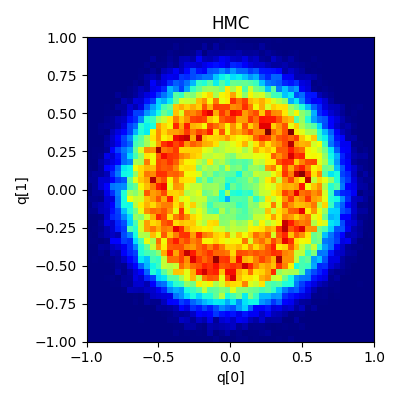
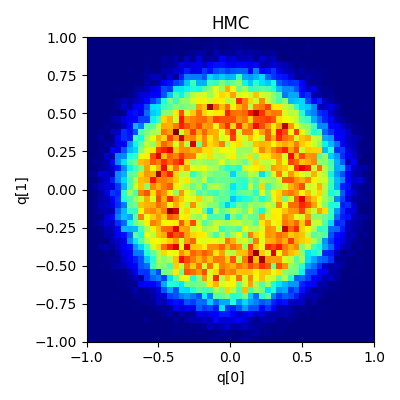
updated some files

Changed region(s): [[0.24, 0.09, 0.93, 0.84]]

diff --git a/src/d.py b/src/d.py
@@ -43,12 +43,12 @@ def Verlet(q0, p0, eps, T, alpha, m):
 def autocovariance(X): # X is only the tail of q after the burn-in
     mu = np.mean(X, axis=0)
     N = len(X[:, 0])
-    cov = np.zeros([N, 2])
-    corr = 0
-    for k in range(N):
-        for i in range(N-k):
+    cov = np.zeros([N-1, 2])
+    
+    for k in range(N-1):
+        for i in range(N-k-1):
             cov[k, :] += ((X[i+k, :])-mu)*(X[i, :]-mu)
-        cov[k, :] = (1/(N-1))*cov[k, :]
+        cov[k, :] = (1/(N-k-1))*cov[k, :]
         
     return cov
 
@@ -62,19 +62,31 @@ def autocorrelation(autocov):
     return corr
 
 def get_M(autocov): # check adaptation of function for  2 dimensions
-    M = None
+    M1 = None
     for k in range(int(len(autocov[:, 0])/2)):
-        if ((autocov[2*k, 0] + autocov[2*k+1, 0])<=0) or ((autocov[2*k, 1] + autocov[2*k+1, 1])<=0) :
-            M = 2*k
+        if ((autocov[2*k, 0] + autocov[2*k+1, 0])<=0):
+            M1 = 2*k
             break
-    if M is None:
-        M = int(len(autocov[:, 0])-2)
-    return M
+    if M1 is None:
+        M1 = int(len(autocov[:, 0])-2)
+    M2 = None
+    for k in range(int(len(autocov[:, 1])/2)):
+        if ((autocov[2*k, 1] + autocov[2*k+1, 1])<=0) :
+            M2 = 2*k
+            break
+    if M2 is None:
+        M2 = int(len(autocov[:, 0])-2)
+    
+    return M1, M2
 
 def get_sigma(autocov): # To check (difference between serie 13 and lecture notes)
-    M = get_M(autocov)
-    id = range(1, M)
-    return autocov[0, :] + 2*np.sum(autocov[id, :], axis=0)
+    [M1, M2] = get_M(autocov)
+    id1 = range(1, M1)
+    S1 = autocov[0, 0] + 2*np.sum(autocov[id1, 0])
+    id2 = range(1, M2)
+    S2 = autocov[0, 1] + 2*np.sum(autocov[id2, 1])
+
+    return [S1, S2]
 
 
 def effective_sample_size(autocov):
@@ -83,7 +95,7 @@ def effective_sample_size(autocov):
     for i in range(n):
         sigma = get_sigma(autocov[i, :, :])
         #print("Sigma=", sigma, ", c0=", autocov[i, 0, :], ", N=", N)
-        ess[i, :]=N*np.divide(autocov[i, 0, :], sigma)
+        ess[i, :] = N*np.divide(autocov[i, 0, :], sigma)
     return ess
 
 
@@ -114,7 +126,7 @@ def Hamiltonian_Monte_Carlo(q0, m, N, T, eps, alpha):
     rejected = 0
     for i in range(N):
         p = st.norm.rvs(loc=0, scale=np.sqrt(m))
-        q_star, p_star = Verlet(q[i, :], p, T, eps, alpha, m)
+        q_star, p_star = Verlet(q[i, :], p, eps, T, alpha, m)
         u = np.random.uniform()
         if (u<np.exp(-U(q_star, alpha)+U(q[i, :], alpha)-K(p_star, m)+K(p, m))):
             q[i+1, :] = q_star

diff --git a/src/ess.py b/src/ess.py
@@ -9,7 +9,9 @@ def main():
     number = 20
 
     #N = 80 #length of the chain
-    vector_N = np.ndarray.astype(np.floor(np.linspace(30, 300, number)), dtype=int)
+    vector_N = np.ndarray.astype(np.floor(np.linspace(30, 200, number)), dtype=int)
+    #vector_N =np.asarray([50, 50, 50])
+    #print(vector_N)
 
     n = 50
     #vector_n = np.ndarray.astype(np.floor(np.linspace(200, 1000, number)), dtype=int) #number of chains simulated
@@ -21,8 +23,8 @@ def main():
     sigma = 0.1
 
 
-    ESS = np.zeros(number)
-    ESS_ham = np.zeros(number)
+    ESS = np.zeros([number, 2])
+    ESS_ham = np.zeros([number, 2])
 
     k=0
 
@@ -47,29 +49,34 @@ def main():
         tail_q_ham = big_q_ham[:, idx, :]
 
 
-        cov = np.zeros(np.shape(tail_q))
-        cov_ham = np.zeros(np.shape(tail_q_ham))
+        cov = np.zeros([n, len(idx)-1, 2])
+        #print(np.shape(cov))
+        cov_ham = np.zeros([n, len(idx)-1, 2])
         for i in range(n):
             cov[i, :, :] = autocovariance(tail_q[i, :, :])
             cov_ham[i, :, :] = autocovariance(tail_q_ham[i, :, :])
 
 
-        ESS[k] = np.mean(effective_sample_size(cov))
+        ESS[k, :] = np.mean(effective_sample_size(cov), axis=0)
         
-        ESS_ham[k] = np.mean(effective_sample_size(cov_ham))
+        ESS_ham[k, :] = np.mean(effective_sample_size(cov_ham), axis=0)
 
         print("Iteration: ", k+1, "/", len(vector_N))
         k=k+1
 
-    fig, ax = plt.subplots(1, 2)
-    ax[0].plot(2*2*vector_N, ESS)
-    ax[1].plot((2+np.floor(T/eps)*4*vector_N), ESS_ham)
-    ax[0].set_title("ESS, RWMH")
-    ax[1].set_title("ESS, HMC")
-    ax[0].set_xlabel("Nb of evaluation of f and df/dqi")
-    ax[0].set_ylabel("Effective sample size")
-    ax[1].set_xlabel("Nb of evaluation of f and df/dqi")
-    ax[1].set_ylabel("Effective sample size")
+    fig, ax = plt.subplots(2, 2)
+    ax[0, 0].plot(2*2*vector_N, ESS[:, 0])
+    ax[0, 1].plot(2*2*vector_N, ESS[:, 1])
+    ax[1, 0].plot((2+np.floor(T/eps)*4*vector_N), ESS_ham[:, 0])
+    ax[1, 1].plot((2+np.floor(T/eps)*4*vector_N), ESS_ham[:, 1])
+    ax[0, 0].set_title("ESS q[0], RWMH")
+    ax[0, 1].set_title("ESS q[1], RWMH")
+    ax[1, 0].set_title("ESS q[0], HMC")
+    ax[1, 1].set_title("ESS q[1], HMC")
+    ax[0, 0].set_ylabel("Effective sample size")
+    ax[1, 0].set_xlabel("Nb of evaluation of f and df/dqi")
+    ax[1, 0].set_ylabel("Effective sample size")
+    ax[1, 1].set_xlabel("Nb of evaluation of f and df/dqi")
 
     plt.show()
 

diff --git a/src/graphs_autocorrelation.py b/src/graphs_autocorrelation.py
@@ -11,7 +11,7 @@ def main():
     offset = False #Offset of q0 [0.5, 0.5]
 
     N = 100 #length of the chain
-    n = 2000 #number of chains simulated
+    n = 1000 #number of chains simulated
     
     eps = 0.01
     m = [1, 1]
@@ -80,8 +80,8 @@ def main():
     avy_ham = np.reshape(tail_qy_ham, -1)
 
     print("Calculating covariance...")
-    cov = np.zeros(np.shape(tail_q))
-    cov_ham = np.zeros(np.shape(tail_q_ham))
+    cov = np.zeros([n, len(idx)-1, 2])
+    cov_ham = np.zeros([n, len(idx)-1, 2])
     for i in range(n):
         cov[i, :, :] = autocovariance(tail_q[i, :, :])
         cov_ham[i, :, :] = autocovariance(tail_q_ham[i, :, :])
@@ -109,8 +109,8 @@ def main():
     
     fig, ax0 = plt.subplots(2, 2)
     ax0[0, 0].plot(exp_q[:, 0], label="RWMH")
-    ax0[1, 0].plot(exp_q[:, 1], label="RWMH")
-    ax0[0, 1].plot(var_q[:, 0], label="RWMH")
+    ax0[0, 1].plot(exp_q[:, 1], label="RWMH")
+    ax0[1, 0].plot(var_q[:, 0], label="RWMH")
     ax0[1, 1].plot(var_q[:, 1], label="RWMH")
     ax0[0, 0].set_title("Average q[0](t)")
     ax0[0, 1].set_title("Average q[1](t)")
@@ -119,8 +119,8 @@ def main():
 
     #fig, ax0_ham = plt.subplots(2, 2)
     ax0[0, 0].plot(exp_q_ham[:, 0], label="HMC")
-    ax0[1, 0].plot(exp_q_ham[:, 1], label="HMC")
-    ax0[0, 1].plot(var_q_ham[:, 0], label="HMC")
+    ax0[0, 1].plot(exp_q_ham[:, 1], label="HMC")
+    ax0[1, 0].plot(var_q_ham[:, 0], label="HMC")
     ax0[1, 1].plot(var_q_ham[:, 1], label="HMC")
     ax0[0, 0].legend()
     ax0[0, 1].legend()

diff --git a/src/graphs_density.py b/src/graphs_density.py
@@ -135,12 +135,12 @@ def main(alpha, q0, N, n, eps, m, T, sigma, B, plot, q0_type="Dirac", offset=Fal
 
 if __name__=="__main__":
 
-    alpha = 10**3
+    alpha = 10**1
     q0 = [0, 0]
     q0_type = "Dirac" # Dirac or Normal
     offset = False #Offset of q0 [0.5, 0.5]
 
-    N = 200 #length of the chain
+    N = 100 #length of the chain
     n = 1000 #number of chains simulated
     
     eps = 0.01
@@ -149,8 +149,8 @@ if __name__=="__main__":
     
     sigma = 0.1
     
-    B = 80
-
+    B = 20
+    
     plot=["Density_all"]
     main(alpha, q0, N, n, eps, m, T, sigma, B, plot, q0_type="Dirac", offset=False)
 
@@ -172,7 +172,7 @@ if __name__=="__main__":
 
     T=0.1
     main(alpha, q0, N, n, eps, m, T, sigma, B, plot, q0_type="Dirac", offset=False)
-
+    
     plot=["RWMH"]
     sigma=0.4
     main(alpha, q0, N, n, eps, m, T, sigma, B, plot, q0_type="Dirac", offset=False)
